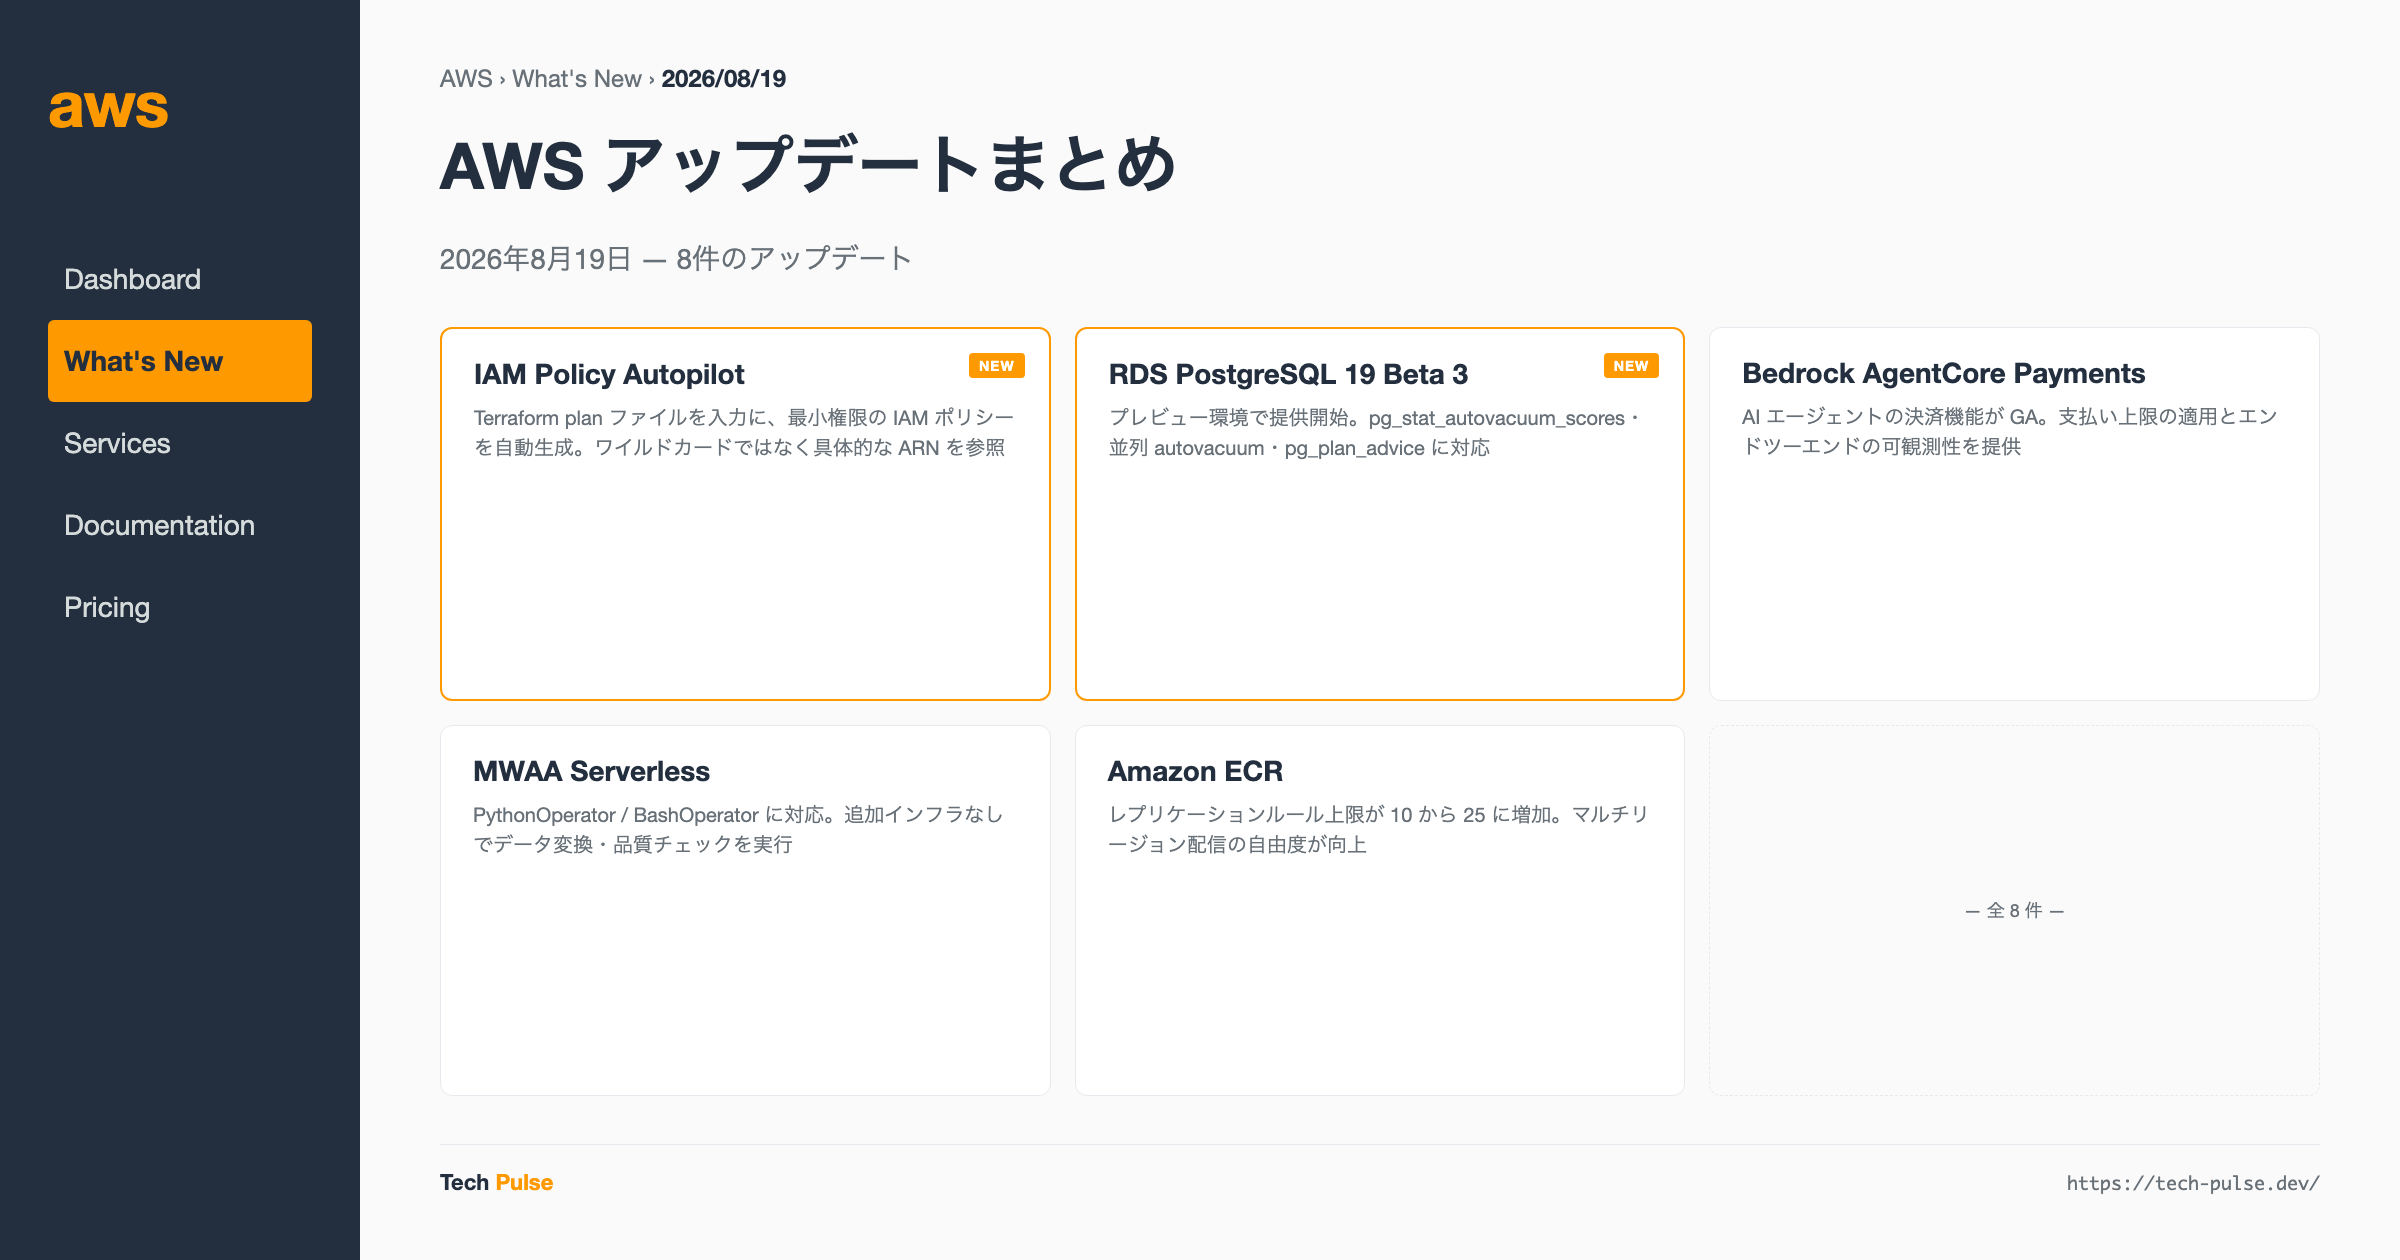
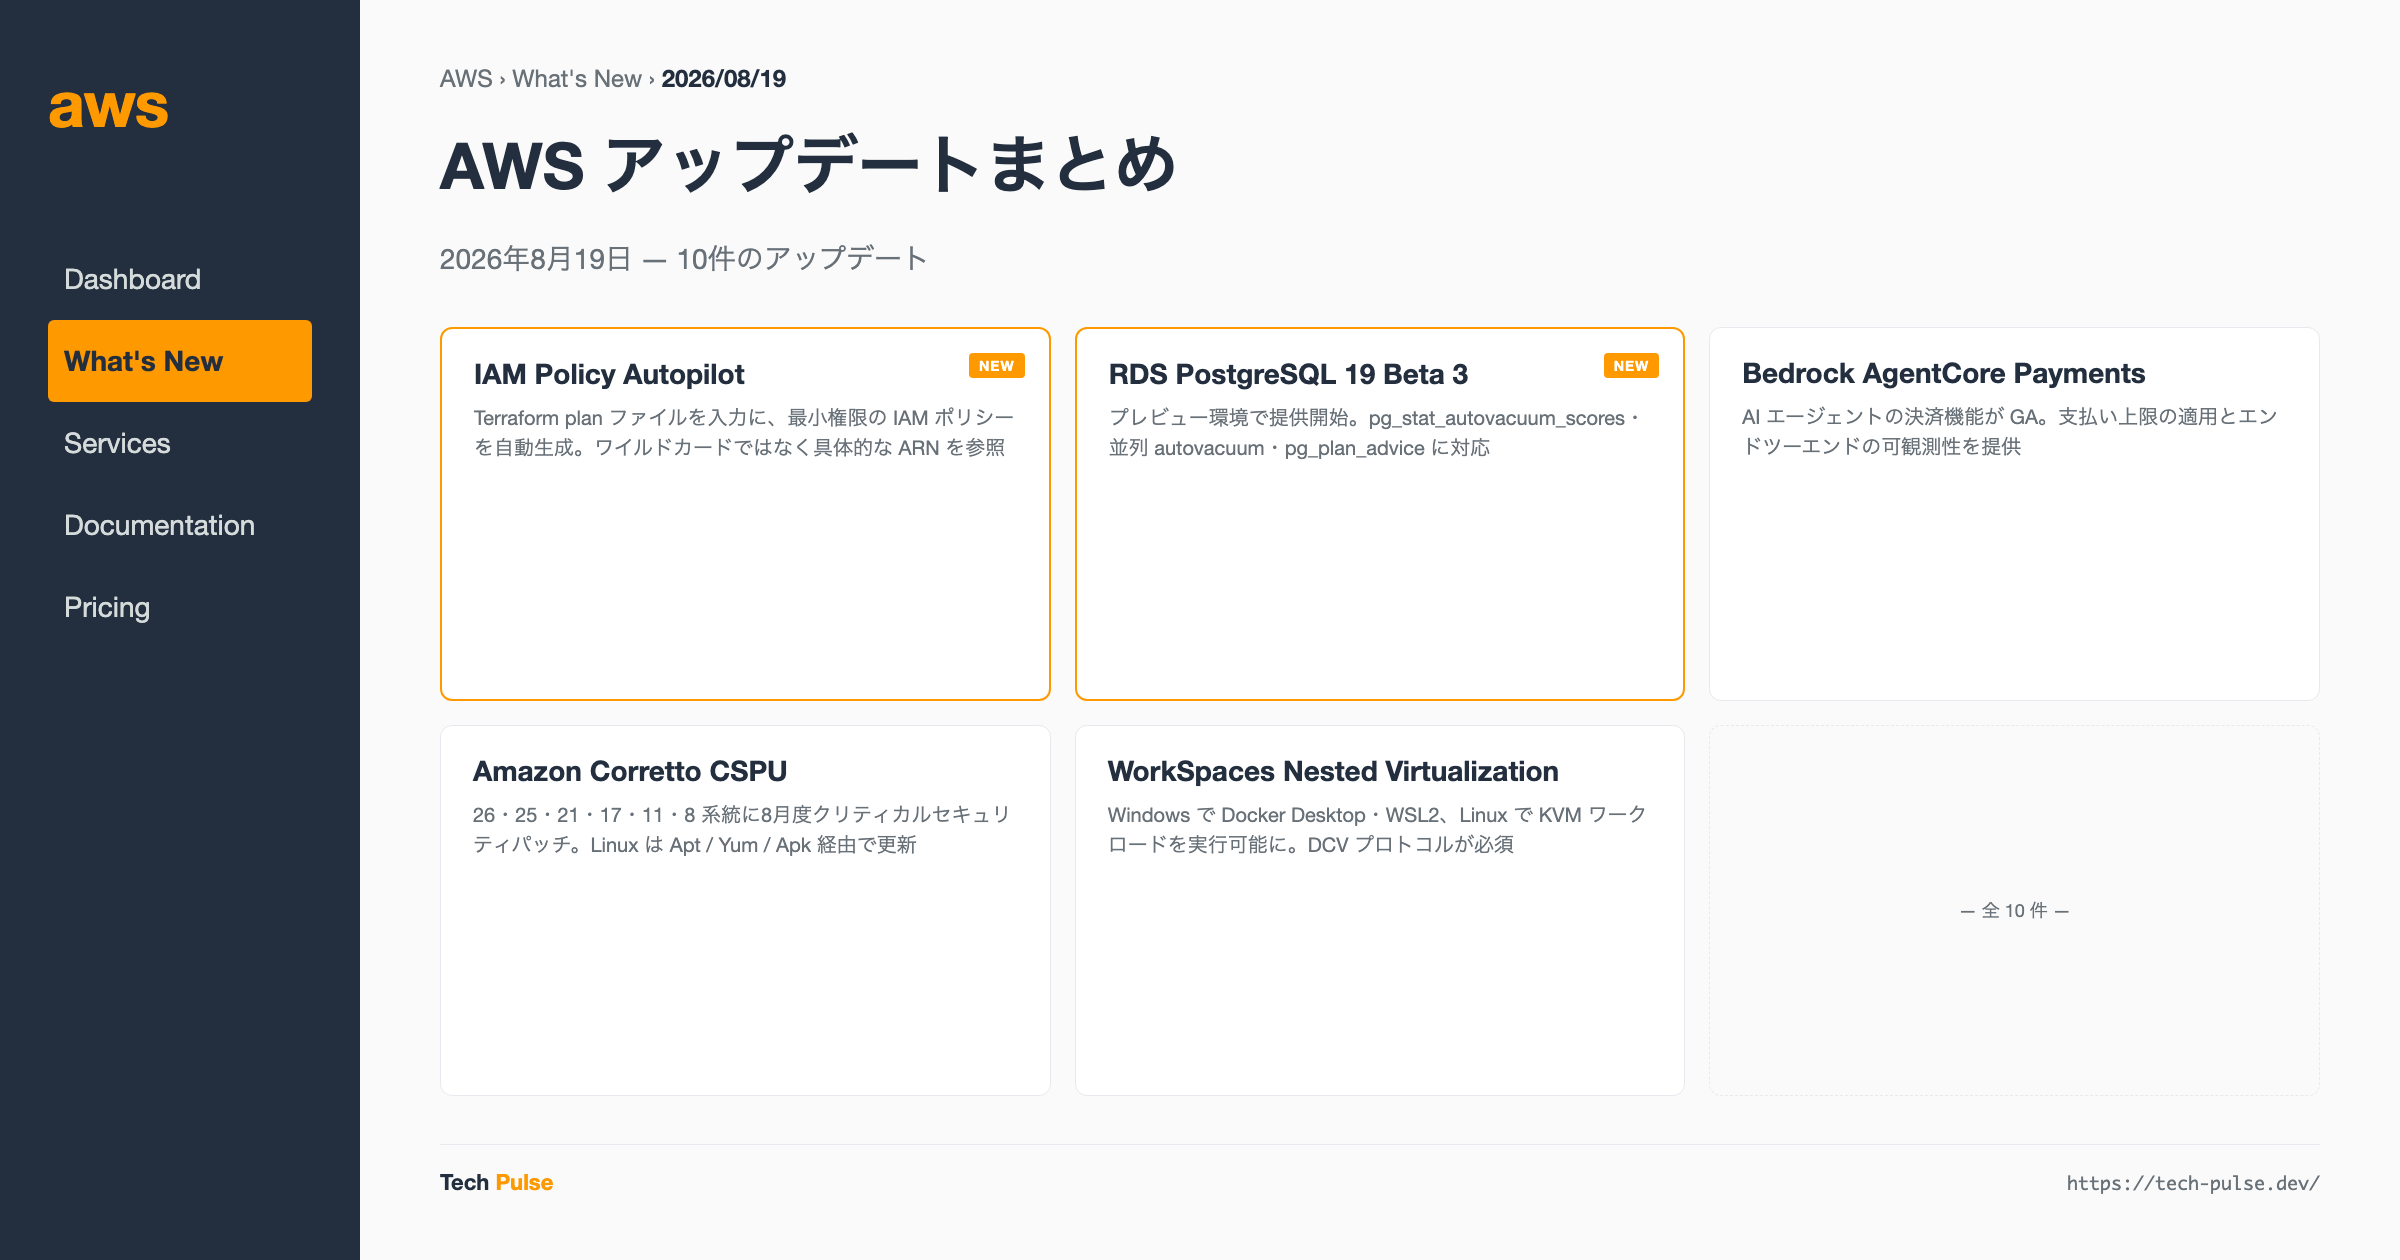
fix: add Corretto and WorkSpaces updates to AWS article for 2026/08/19
RSS フィードとの突合で、ドラフト生成時刻より前に公開済みかつ
前日記事にも未掲載の2件が欠落していたため追記（8件→10件）。
ヘッダ画像も10件版に差し替え。

diff --git a/content/posts/aws-updates-20260819.md b/content/posts/aws-updates-20260819.md
@@ -2,7 +2,7 @@
 title: "【AWS】2026/08/19 のアップデートまとめ"
 date: 2026-08-19T08:01:55+09:00
 draft: false
-tags: ["aws", "ec2", "rds", "postgresql", "sagemaker", "bedrock", "iam", "mwaa", "msk", "ecr"]
+tags: ["aws", "ec2", "rds", "postgresql", "sagemaker", "bedrock", "iam", "mwaa", "msk", "ecr", "corretto", "workspaces"]
 categories: ["AWS Updates"]
 summary: "2026/08/19 のAWSアップデートまとめ"
 ---
@@ -13,7 +13,7 @@ summary: "2026/08/19 のAWSアップデートまとめ"
 
 ## はじめに
 
-今回は、直近で発表された8件の AWS アップデートを紹介します。EC2 の新インスタンスタイプの地域拡大、PostgreSQL 19 Beta のプレビュー提供、IAM Policy Autopilot の Terraform 対応、Amazon Bedrock AgentCore の決済機能 GA など、コンピューティング、データベース、セキュリティ、AI/ML の各領域で注目すべき機能強化が行われています。特に、運用効率とセキュリティを高める Infrastructure as Code 関連の改善や、サーバーレス環境の機能拡充が目立ちます。本記事では、これらのアップデートの中から特に実務に影響の大きいものを深掘りし、SRE の視点での活用ポイントを交えて解説します。
+今回は、直近で発表された10件の AWS アップデートを紹介します。EC2 の新インスタンスタイプの地域拡大、PostgreSQL 19 Beta のプレビュー提供、IAM Policy Autopilot の Terraform 対応、Amazon Bedrock AgentCore の決済機能 GA など、コンピューティング、データベース、セキュリティ、AI/ML の各領域で注目すべき機能強化が行われています。特に、運用効率とセキュリティを高める Infrastructure as Code 関連の改善や、サーバーレス環境の機能拡充が目立ちます。本記事では、これらのアップデートの中から特に実務に影響の大きいものを深掘りし、SRE の視点での活用ポイントを交えて解説します。
 
 ## 注目アップデート深掘り
 
@@ -111,6 +111,10 @@ PostgreSQL のメジャーバージョンアップグレードは、互換性確
 
 Amazon MWAA Serverless の PythonOperator / BashOperator 対応は、データパイプラインの運用を簡素化します。公式告知では、データ変換・フォーマット変換・データ品質チェックといった日常的なコードパターンを、追加のインフラをプロビジョニングせずに実行できる点が挙げられています。Python モジュールやシェルスクリプトを S3 にアップロードし、ワークフロー作成時に参照する形で利用します。ただし、実行時間が長い処理や大量のリソースを消費する処理については、従来のワーカーベースの実行との性能比較が必要です。
 
+Amazon Corretto の8月度クリティカルセキュリティパッチ（CSPU）は、Java ランタイムを運用しているチームにとって計画的な適用が必要な更新です。対象は Corretto 26・25・21・17・11・8 の各系統で、Linux では Apt / Yum / Apk リポジトリを構成しておくと自動更新の対象にできます。告知では個別の CVE 番号までは示されていないため、詳細が必要な場合は Corretto のリリースページを確認してください。
+
+Amazon WorkSpaces の Nested Virtualization 対応は、仮想デスクトップ上で Docker Desktop や WSL2、KVM ベースのワークロードを直接動かせるようになる点で、開発者向け VDI の適用範囲を広げます。導入時は前提条件に注意が必要で、DCV プロトコルが必須、Power（4 vCPU）以上が推奨、GPU バンドル・PCoIP・Windows Server 2016・Windows 10 は非対応です。また、中国（寧夏）とイスラエル（テルアビブ）の両リージョンは対象外とされています。
+
 Amazon MSK のカスタムドメイン名対応は、公式告知でもクラスター移行・災害復旧フェイルオーバー・スケーリング操作のシナリオが挙げられています。クライアントアプリケーションが同じ接続エンドポイントを維持できるため、これらの操作時に再構成が不要になります。運用上は、DNS キャッシュの TTL 設定に注意し、切り替え時間を適切に見積もる必要があります。
 
 ## 全アップデート一覧
@@ -125,6 +129,8 @@ Amazon MSK のカスタムドメイン名対応は、公式告知でもクラス
 | Amazon MWAA | [MWAA Serverless supports PythonOperator and BashOperator](https://aws.amazon.com/about-aws/whats-new/2026/08/mwaa-serverless-pythonoperator-bashoperator/) | サーバーレスランタイム内で Python 関数やシェルスクリプトを直接実行可能に。追加インフラ不要でデータ変換・品質チェックを実行 |
 | Amazon MSK | [MSK supports custom domain names](https://aws.amazon.com/about-aws/whats-new/2026/17/amazon-msk-custom-domain-names/) | MSK Provisioned クラスターでカスタムドメイン名を設定可能に。ZooKeeper と KRaft 両対応で、クラスター移行時の再構成が不要 |
 | Amazon ECR | [ECR supports 25 replication rules per registry](https://aws.amazon.com/about-aws/whats-new/2026/08/amazon-ecr-increased-replication-rules-limit) | レプリケーションルール上限が 10 から 25 に増加。マルチリージョン・マルチアカウント環境でより柔軟な配信戦略が可能 |
+| Amazon Corretto | [August 2026 Critical Security Patch Updates](https://aws.amazon.com/about-aws/whats-new/2026/08/amazon-corretto-august-2026-security-updates) | Corretto 26.0.2.11.1・25.0.4.8.1・21.0.12.9.1・17.0.20.10.1・11.0.32.10.1・8u504 に CSPU を提供。Linux は Apt / Yum / Apk リポジトリ経由で更新可能 |
+| Amazon WorkSpaces | [WorkSpaces supports Nested Virtualization](https://aws.amazon.com/about-aws/whats-new/2026/08/nested-virtualization-workspaces/) | Windows で Docker Desktop・WSL2 など、Linux で KVM ワークロード・Android エミュレータを実行可能に。DCV プロトコルが必須で、GPU バンドル・PCoIP は非対応 |
 
 ## まとめ
 
